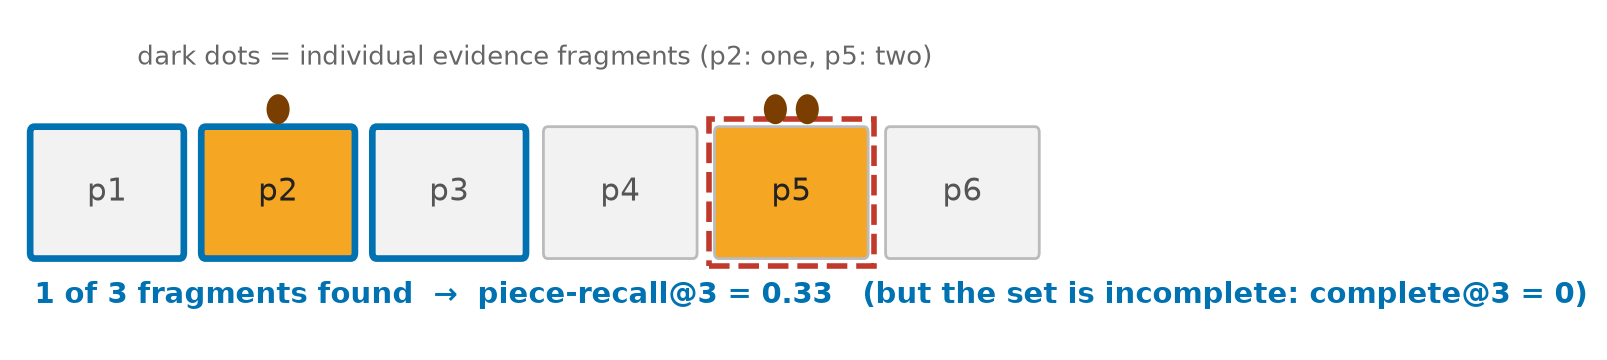
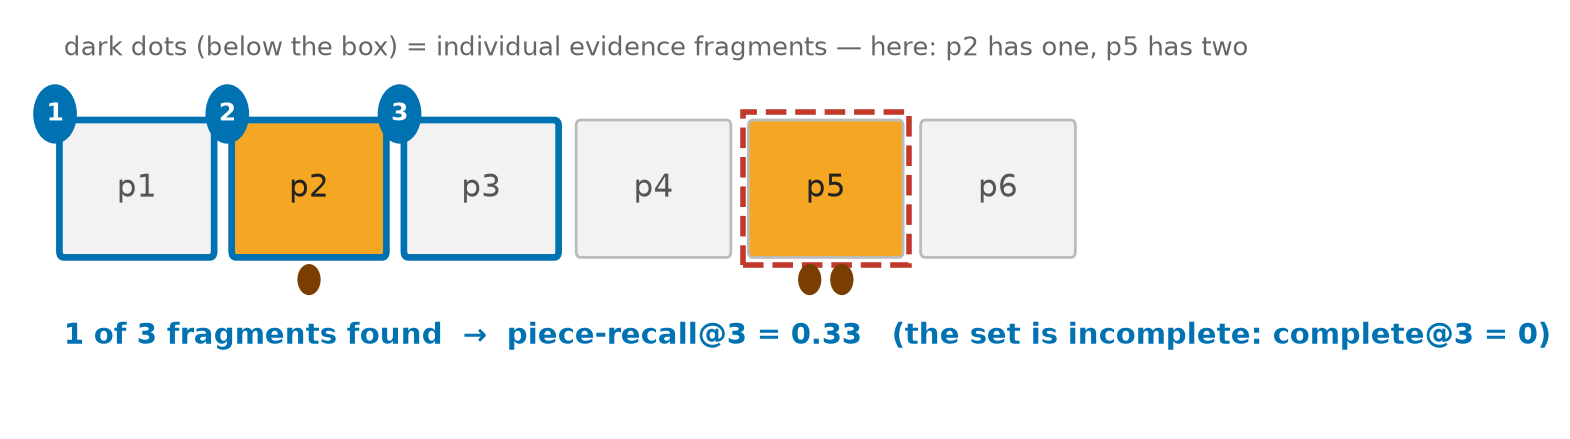
Metric schematics: add rank badges to disambiguate top-k from page position
First version drew pages in document order while 'top-3' is the method's rank
order — the success row (p5 ranked #1) read as 'p5 is outside the top-3'.
Metric logic was correct (verified); visualization was not. Now selected pages
carry blue rank badges, fragment dots sit below boxes, and row spacing avoids
text/badge collisions.

Changed region(s): [[0.0, 0.0917, 0.9987, 0.8556], [0.6242, 0.3972, 0.6554, 0.4583]]

diff --git a/farit/src/analysis/metric_examples.py b/farit/src/analysis/metric_examples.py
@@ -34,9 +34,11 @@ PAGE_W, PAGE_H, GAP = 1.0, 0.62, 0.18
 ROW_W = N_PAGES * (PAGE_W + GAP) - GAP
 
 
-def draw_row(ax, y0, gold_pages, selected, verdict, verdict_color, fragments=None):
-    """One document row: pages 1..6 with gold/selection/miss markings,
+def draw_row(ax, y0, gold_pages, ranked, verdict, verdict_color, fragments=None):
+    """One document row: pages 1..6 with gold/selection/miss markings.
+    `ranked` = the method's top pages IN RANK ORDER (badge shows the rank),
     verdict text on its own line below the boxes."""
+    selected = set(ranked)
     for i in range(1, N_PAGES + 1):
         x = (i - 1) * (PAGE_W + GAP)
         is_gold = i in gold_pages
@@ -53,43 +55,51 @@ def draw_row(ax, y0, gold_pages, selected, verdict, verdict_color, fragments=Non
                                    fill=False, edgecolor=MISS_EDGE, lw=2.0, ls="--", zorder=3))
         ax.text(x + PAGE_W / 2, y0 + PAGE_H / 2, f"p{i}", ha="center", va="center",
                 fontsize=11, color="#222222" if is_gold else "#555555", zorder=4)
+        # rank badge on selected pages: blue circle with the method's rank
+        if is_sel:
+            bx, by = x - 0.06, y0 + PAGE_H + 0.06
+            ax.add_patch(plt.Circle((bx, by), 0.14, color=SEL_EDGE, zorder=5))
+            ax.text(bx, by, str(ranked.index(i) + 1), ha="center", va="center",
+                    fontsize=9, color="white", fontweight="bold", zorder=6)
         if fragments and i in fragments:
             for j in range(fragments[i]):
-                bx = x + PAGE_W / 2 + (j - (fragments[i] - 1) / 2) * 0.22
-                ax.add_patch(plt.Circle((bx, y0 + PAGE_H + 0.12), 0.07,
+                fx = x + PAGE_W / 2 + (j - (fragments[i] - 1) / 2) * 0.22
+                ax.add_patch(plt.Circle((fx, y0 - 0.14), 0.07,
                                         color="#7A3E00", zorder=4))
-    ax.text(0, y0 - 0.22, verdict, ha="left", va="center",
+    ax.text(0, y0 - 0.42, verdict, ha="left", va="center",
             fontsize=10.5, color=verdict_color, fontweight="bold")
 
 
 def make_strict(path: Path):
-    fig, ax = plt.subplots(figsize=(7.6, 2.5))
+    fig, ax = plt.subplots(figsize=(7.6, 2.9))
     ax.axis("off")
-    draw_row(ax, 1.35, gold_pages={2, 5}, selected={2, 3, 5},
-             verdict="all gold pages inside the budget  →  complete@3 = 1",
+    ax.text(0, 2.58, "blue badge = rank of the page in the method's ranking (not its position in the document)",
+            ha="left", fontsize=9.5, color="#666666")
+    draw_row(ax, 1.6, gold_pages={2, 5}, ranked=[5, 2, 3],
+             verdict="both gold pages are inside the method's top-3  →  complete@3 = 1",
              verdict_color="#1A7A3C")
-    draw_row(ax, 0.15, gold_pages={2, 5}, selected={1, 2, 3},
-             verdict="p5 carries evidence but is outside top-3  →  complete@3 = 0",
+    draw_row(ax, 0.15, gold_pages={2, 5}, ranked=[1, 2, 3],
+             verdict="p5 carries evidence but is outside the top-3  →  complete@3 = 0",
              verdict_color="#C0392B")
-    ax.set_xlim(-0.1, ROW_W + 0.1)
-    ax.set_ylim(-0.25, 2.35)
+    ax.set_xlim(-0.3, ROW_W + 0.1)
+    ax.set_ylim(-0.42, 2.76)
     fig.tight_layout()
     fig.savefig(path, dpi=200, bbox_inches="tight")
     plt.close(fig)
 
 
 def make_lenient(path: Path):
-    fig, ax = plt.subplots(figsize=(7.6, 1.9))
+    fig, ax = plt.subplots(figsize=(7.6, 2.3))
     ax.axis("off")
-    ax.text(ROW_W / 2, 1.32, "dark dots = individual evidence fragments (p2: one, p5: two)",
-            ha="center", fontsize=9.5, color="#666666")
-    draw_row(ax, 0.35, gold_pages={2, 5}, selected={1, 2, 3},
+    ax.text(0, 1.62, "dark dots (below the box) = individual evidence fragments — here: p2 has one, p5 has two",
+            ha="left", fontsize=9.5, color="#666666")
+    draw_row(ax, 0.65, gold_pages={2, 5}, ranked=[1, 2, 3],
              verdict="1 of 3 fragments found  →  piece-recall@3 = 0.33   "
-                     "(but the set is incomplete: complete@3 = 0)",
+                     "(the set is incomplete: complete@3 = 0)",
              verdict_color="#0072B2",
              fragments={2: 1, 5: 2})
-    ax.set_xlim(-0.1, ROW_W + 0.1)
-    ax.set_ylim(-0.1, 1.55)
+    ax.set_xlim(-0.3, ROW_W + 0.1)
+    ax.set_ylim(-0.18, 1.8)
     fig.tight_layout()
     fig.savefig(path, dpi=200, bbox_inches="tight")
     plt.close(fig)
